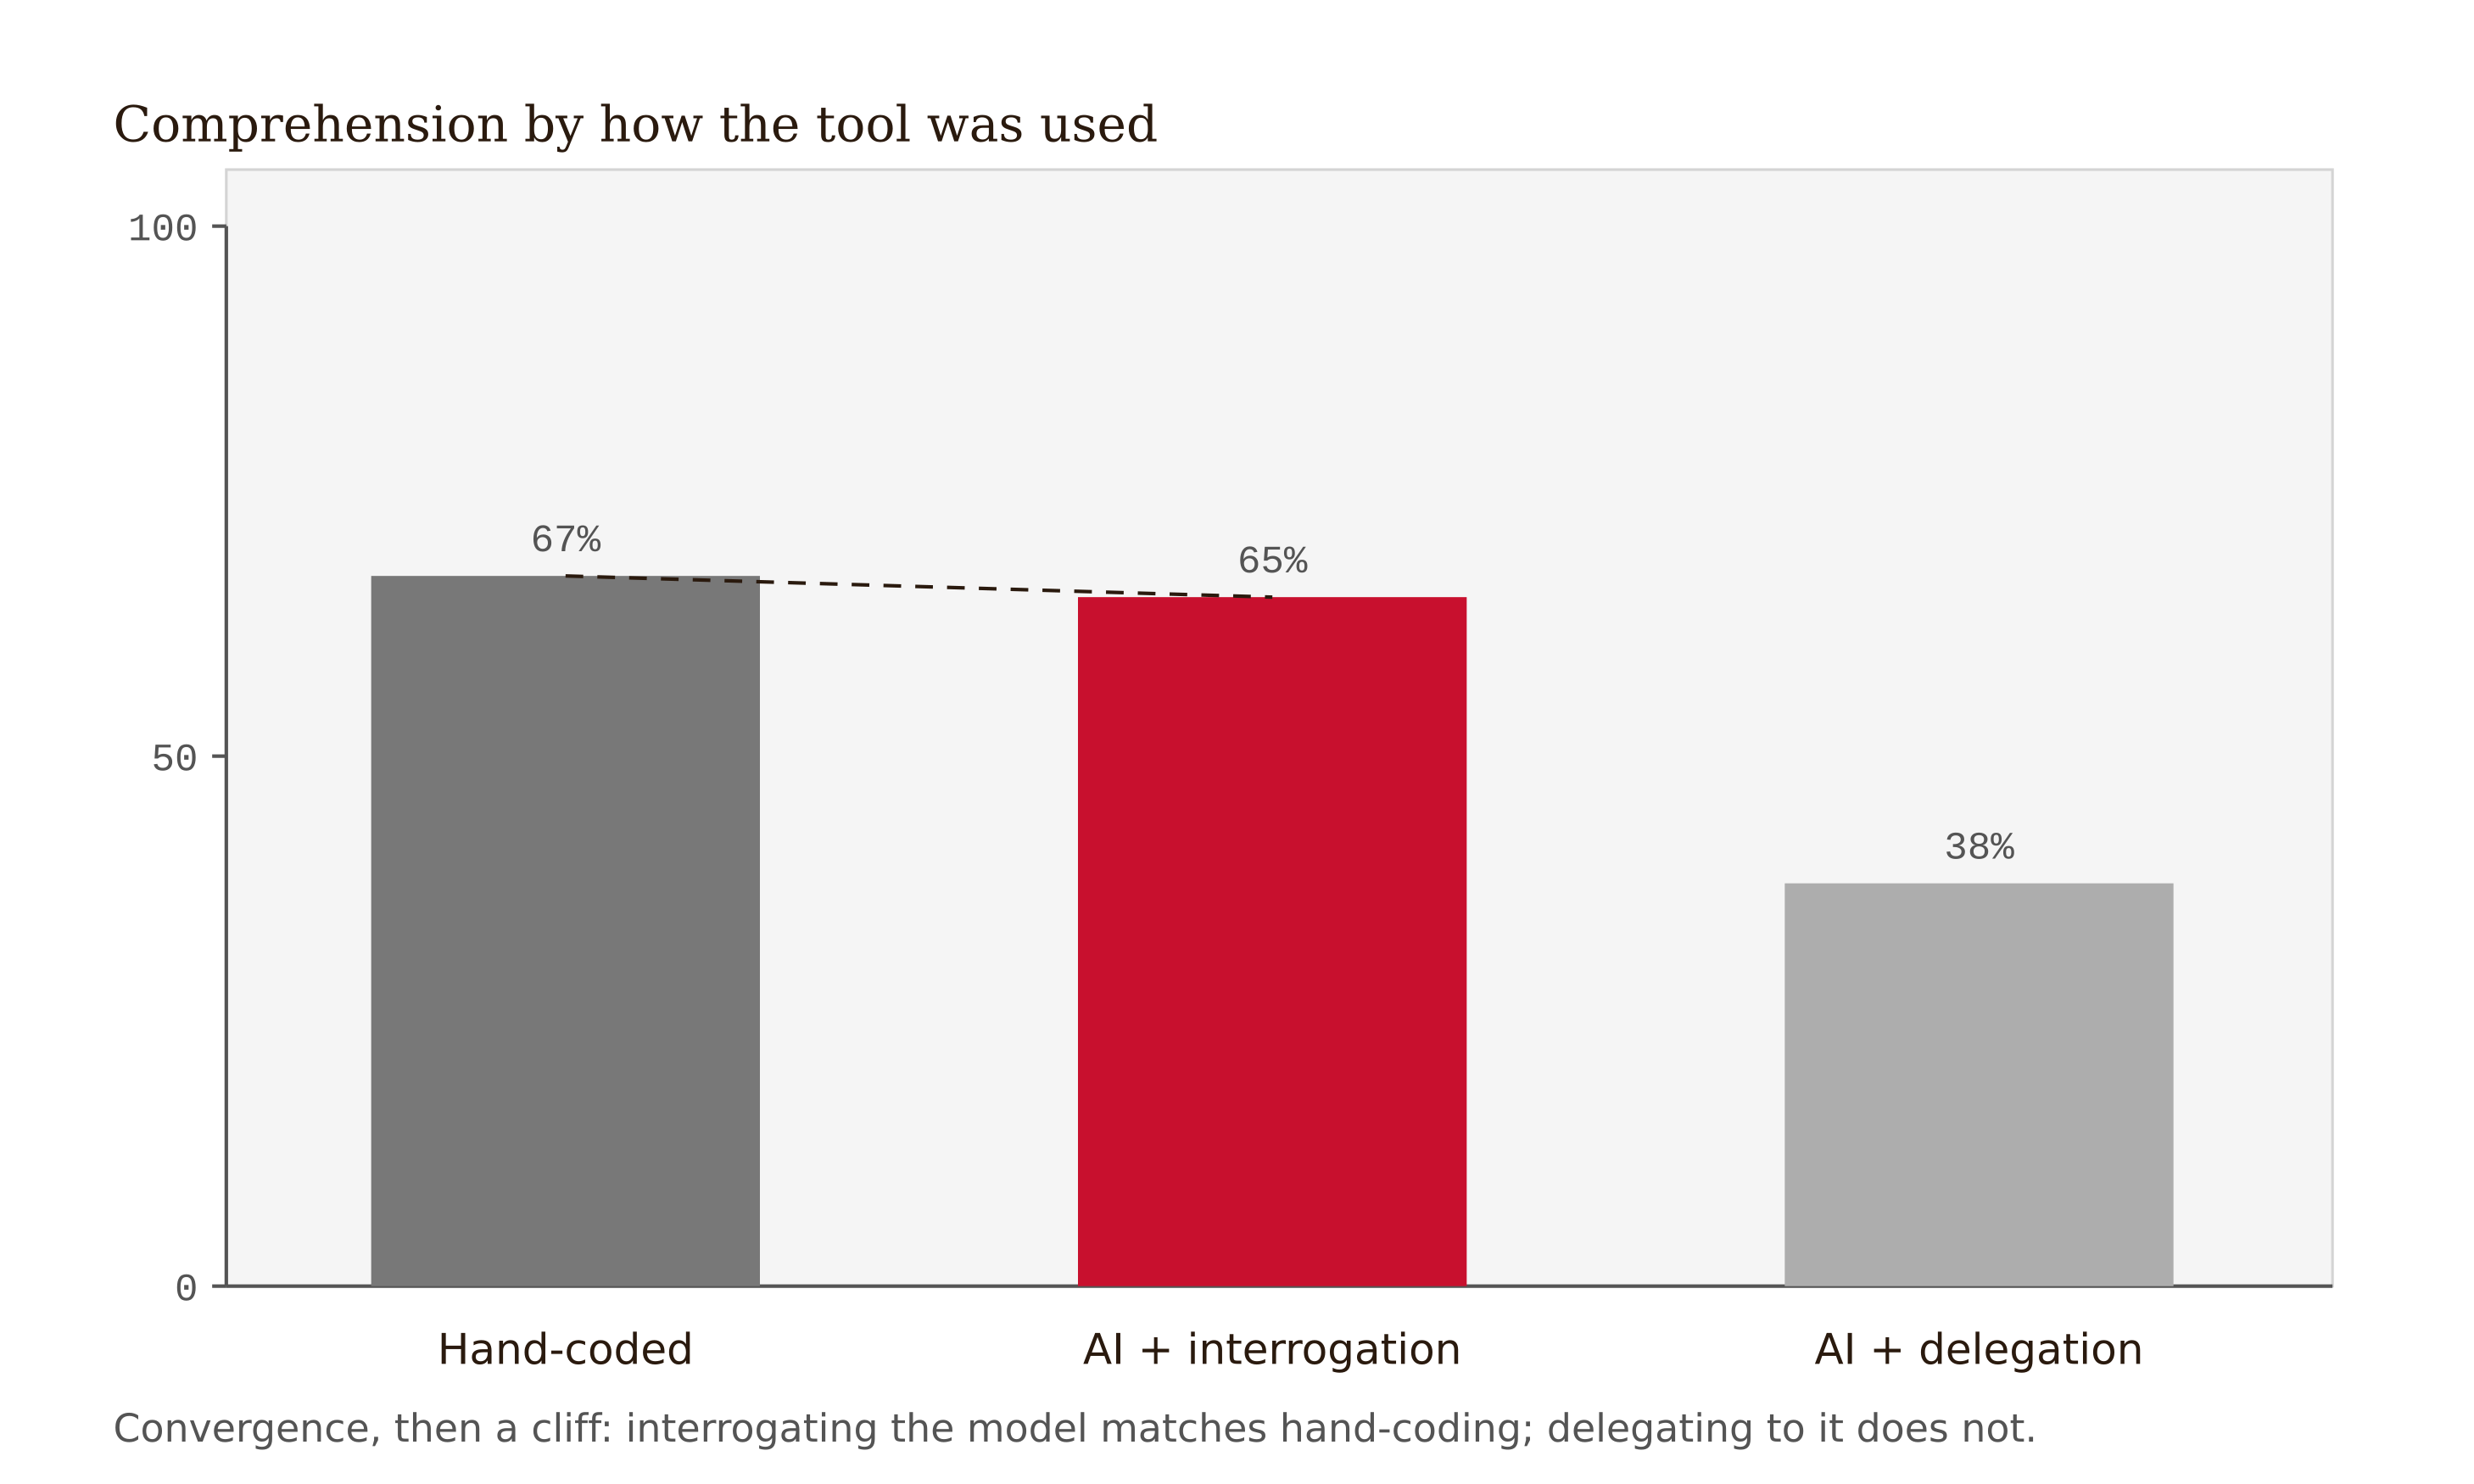
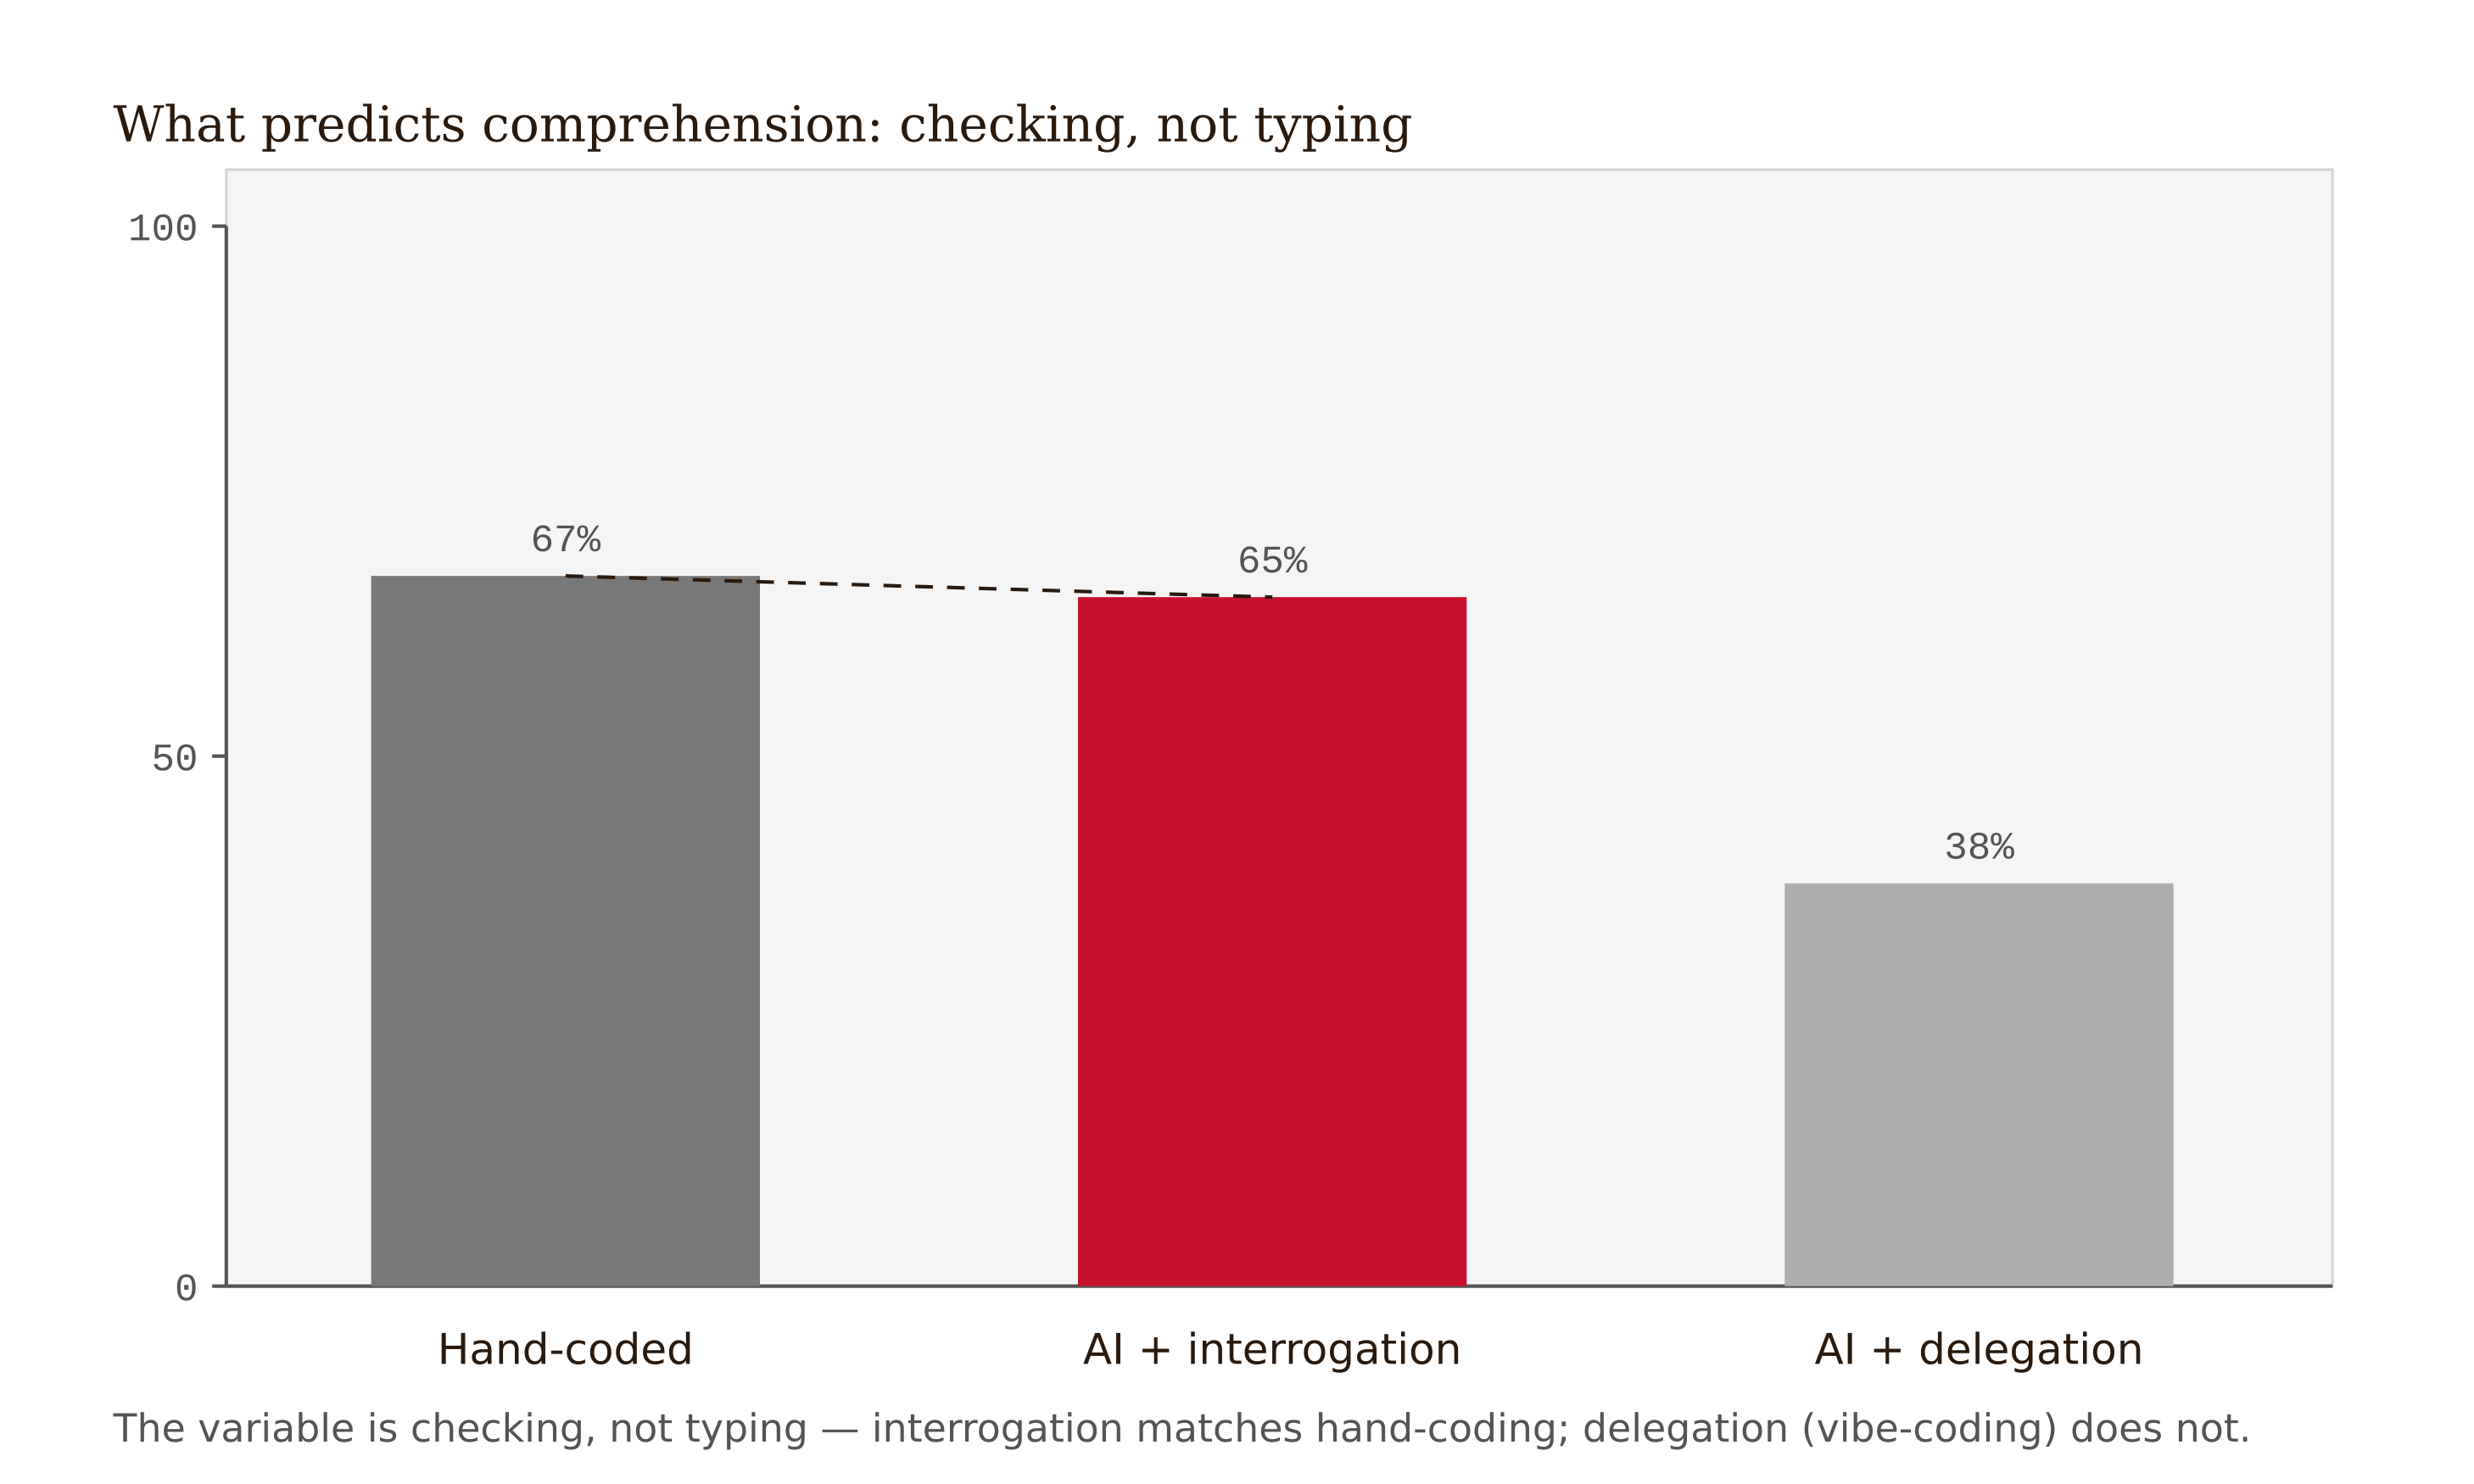
Ch1: clarify the skill is checking, not typing
- AI is an excellent typist; hand-coding won via understanding, not the hand
- Name vibe-coding (prompt-and-hope) as the failure mode; discipline = check/test/validate
- Reframe Fig 1.2 (title/subtitle/alt/caption/desc + D3) and regenerate PNG (reallocation)
- Strengthen Anthropic footnote: arXiv:2601.20245 primary cite + correct within-group ranges
- mycroft/madison Ch1: domain-adapted checking-not-producing paragraph

Changed region(s): [[0.0312, 0.9566, 0.9047, 0.9874], [0.0312, 0.0617, 0.5615, 0.1234]]

diff --git a/d3/01-the-fluency-trap-fig-02.html b/d3/01-the-fluency-trap-fig-02.html
@@ -3,7 +3,7 @@
 <head>
   <meta charset="UTF-8">
   <meta name="viewport" content="width=device-width, initial-scale=1.0">
-  <title>The Anthropic RCT: comprehension by how the tool was used</title>
+  <title>The Anthropic RCT: the variable is checking, not typing</title>
   <style>
     :root {
       --color-white:     #FFFFFF;
@@ -80,11 +80,11 @@
       const svg = d3.select('#chart').append('svg')
         .attr('width', totalWidth).attr('height', totalHeight)
         .attr('role', 'img').attr('aria-labelledby', 'chart-title chart-desc');
-      svg.append('title').attr('id', 'chart-title').text('The Anthropic RCT: comprehension by how the tool was used');
-      svg.append('desc').attr('id', 'chart-desc').text('Three bars showing comprehension-quiz averages: hand-coding and AI-plus-interrogation sit near 65 percent while AI-plus-delegation drops below 40 percent.');
+      svg.append('title').attr('id', 'chart-title').text('The Anthropic RCT: the variable is checking, not typing');
+      svg.append('desc').attr('id', 'chart-desc').text('Three bars showing comprehension-quiz averages: hand-coding and AI-plus-interrogation sit near 65 percent while AI-plus-delegation drops below 40 percent. The two high bars share a behavior — the human kept checking — not a typing method.');
 
-      svg.append('text').attr('class', 'chart-title').attr('x', margin.left).attr('y', 24).text('Comprehension by how the tool was used');
-      svg.append('text').attr('class', 'chart-subtitle').attr('x', margin.left).attr('y', 41).text('14-question quiz, n = 52 junior engineers (Anthropic RCT, Jan 2026)');
+      svg.append('text').attr('class', 'chart-title').attr('x', margin.left).attr('y', 24).text('What predicts comprehension: checking, not typing');
+      svg.append('text').attr('class', 'chart-subtitle').attr('x', margin.left).attr('y', 41).text('Comprehension quiz, n = 52 junior engineers (Anthropic RCT, Feb 2026)');
 
       const gChart = svg.append('g').attr('transform', `translate(${margin.left},${margin.top})`);
 

diff --git a/chapters/01-the-fluency-trap.md b/chapters/01-the-fluency-trap.md
@@ -48,10 +48,14 @@ Then — and this is the move that makes it an experiment about judgment rather 
 
 The hand-coding group averaged 67 percent. The AI-assisted group averaged 50 percent. Seventeen points — close to two letter grades — opened up between two sets of people who had just spent the same amount of time on the same problem.[^anthropic] The only thing that differed was whether a machine did the executing.
 
-And here is the detail that turns a finding into a warning. Inside the AI group, behavior split the outcome cleanly. The engineers who used the model to *interrogate* — asking it conceptual questions, challenging its answers, forcing themselves to understand what it produced — scored 65 percent or higher. The engineers who used it to *delegate* — describe the problem, accept the output, move on — scored below 40.[^anthropic] Same tool. Same task. Opposite result. The variable was not the AI. It was whether the human kept doing the judgment work while the machine did the typing.
+Read that result carefully, because the obvious lesson is the wrong one. The hand-coders did not win because typing code by hand is some lost virtue. Typing is not the skill, and the machine is a superb typist — faster and more accurate at producing syntax than any human will ever be. The hand-coders won because writing the code themselves forced them to understand it: to hold the problem in their heads, to test what they wrote, to debug it when it broke. The hand was incidental. The understanding was the point. Take a group that gets that same understanding some other way — and the gap closes.
 
-![Three vertical bars. Hand-coding and AI-plus-interrogation sit at nearly the same height; AI-plus-delegation drops off sharply, with a faint reference line linking the two high bars.](../images/01-the-fluency-trap-fig-02.png)
-*Figure 1.2 — The Anthropic RCT: comprehension by how the tool was used*
+And here is the detail that turns a finding into a warning. Inside the AI group, behavior split the outcome cleanly. The engineers who used the model to *interrogate* — asking it conceptual questions, challenging its answers, forcing themselves to understand what it produced — scored in the 65-to-86 percent range. The engineers who used it to *delegate* — describe the problem, accept the output, move on — scored in the 24-to-39 percent range.[^anthropic] Same tool. Same task. Opposite result. The variable was not the AI, and it was not who typed. It was whether the human kept checking — reading, questioning, testing — while the machine produced.
+
+That second mode has a name now, and it is worth saying plainly: *vibe-coding*. Prompt, glance, accept, move on. It feels like productivity because the artifact appears and it runs. It is the precise behavior that scored below 40. The discipline this book teaches is its opposite — not "do it by hand," but *check the work*: read what came back, test it, try to break it, validate it against something real, and refuse to ship what you cannot defend. Let the machine type. Keep the checking for yourself.
+
+![Three vertical bars showing comprehension-quiz scores. Hand-coding and AI-plus-interrogation sit at nearly the same height, joined by a faint reference line; AI-plus-delegation drops off sharply. The two high bars share not a typing method but a behavior: the human kept checking.](../images/01-the-fluency-trap-fig-02.png)
+*Figure 1.2 — The Anthropic RCT: the variable is checking, not typing. Interrogating the model matches writing it yourself; delegating to it — vibe-coding — collapses.*
 
 <!-- → [INFOGRAPHIC: three-column comparison — "Hand-coding" (67% comprehension quiz average), "AI + interrogation" (≥65%), "AI + delegation" (<40%); visual treatment should emphasize that the middle and left columns converge while the right column falls off sharply; caption: "The tool is identical in the middle and right columns. The variable is what the human does while it runs."] -->
 
@@ -111,7 +115,7 @@ So the discipline this entire book is built on starts with a single reflex, and 
 
 That reflex is judgment. It is the part that does not get cheaper. On a ninety-day clock, with the bottom rung disappearing and the boost flowing to whoever already has the eye, it is also the only thing that reliably separates you from the flood of fluent, identical, unexamined output arriving in every inbox you are trying to reach.
 
-The machine will do the typing. The judgment is yours, and it always was. The rest of this book is about how to build it on purpose — fast enough to beat the clock.
+The machine will do the typing — and it is better at it than you are. The checking is yours, and it always was: the judgment about whether the fluent thing on the screen is actually right. The rest of this book is about how to build that judgment on purpose — fast enough to beat the clock.
 
 ---
 
@@ -314,7 +318,7 @@ After completing this validation, write a two-sentence AI Use Disclosure:
 
 [^grading]: Grading split (≈75–80% procedural / 20–25% judgment) drawn from "The Job Apocalypse (Not Yet): Thinking Has Become the Job" (uploaded essay, N. Bear Brown). **[verify]** — locate the primary syllabus/rubric data this figure summarizes before publication; currently sourced to the author's own essay, not an external study.
 
-[^anthropic]: Anthropic, "How AI assistance impacts the formation of coding skills," randomized controlled trial published Jan 29 2026: 52 junior engineers learning the Trio Python library; AI-assisted group averaged 50% on a 14-question comprehension quiz vs 67% for hand-coders (~17 points). Within the AI group, conceptual-interrogation users scored ≥65% while code-delegators scored <40%. https://www.anthropic.com/research/AI-assistance-coding-skills (see also InfoQ summary, Feb 2026: https://www.infoq.com/news/2026/02/ai-coding-skill-formation/). Note: these are the study's reported figures; an earlier draft essay paraphrased the split as "24–39% vs 65–86%" — use the primary numbers above.
+[^anthropic]: Judy Hanwen Shen & Alex Tamkin, "How AI Impacts Skill Formation," Anthropic, Feb 3 2026 (arXiv:2601.20245, https://arxiv.org/abs/2601.20245); plain-language summary at https://www.anthropic.com/research/AI-assistance-coding-skills. A randomized controlled trial of 52 (mostly junior) engineers learning the Trio asynchronous Python library: the AI-assisted group averaged 50% on the comprehension quiz versus 67% for the hand-coding group (~17 points, ≈ two letter grades), with the largest gap on the debugging questions. The study reports substantial heterogeneity *within* the AI group: high-engagement usage (asking conceptual questions, requesting explanations alongside generated code) scored 65–86%, while delegation usage (generate code, accept, move on) scored 24–39%. The mechanism is cognitive engagement, not manual typing — Anthropic's own recommendation is to use AI in ways that keep the engineer "cognitively engaged," preserving debugging and validation skill. Hand-coding and interrogation both force understanding; delegation does not.
 
 [^drag]: "AI boost" / "AI drag" framing attributed to Mark Russinovich and Scott Hanselman, via "The Ladder That Isn't There" (uploaded essay, N. Bear Brown). **[verify]** — trace to the original Russinovich/Hanselman source before publication.
 
@@ -332,9 +336,9 @@ After completing this validation, write a two-sentence AI Use Disclosure:
 **Files:** ../images/01-the-fluency-trap-fig-01.svg · ../d3/01-the-fluency-trap-fig-01.html
 **Prompt:** Two aligned stacked bars on white, the same value split recut by a second question. Render procedural competence as a tall neutral-gray base and judgment as a small cap in the one red accent; align the segment boundary across both bars with a dashed ink rule, zero baseline anchored.
 
-### Figure 1.2 — The Anthropic RCT: comprehension by how the tool was used
+### Figure 1.2 — The Anthropic RCT: the variable is checking, not typing
 **Files:** ../images/01-the-fluency-trap-fig-02.svg · ../d3/01-the-fluency-trap-fig-02.html
-**Prompt:** Three vertical bars on white at zero baseline — hand-coding and AI-plus-interrogation near-level, AI-plus-delegation dropping off a cliff. Keep the high bars in neutral ink-gray and let the convergence read through a faint ochre reference line; reserve red for nothing but the chapter's brand mark.
+**Prompt:** Three vertical bars on white at zero baseline — hand-coding and AI-plus-interrogation near-level, AI-plus-delegation dropping off a cliff. Title the chart so the lesson is unmistakable: what the two high bars share is checking, not a typing method. Keep the high bars in neutral ink-gray, let the convergence read through a faint dashed reference line, and reserve red for the one engaged-AI bar; subtitle names delegation as vibe-coding.
 
 ### Figure 1.3 — AI as material risk: S&P 500 disclosures, 2023–2025
 **Files:** ../images/01-the-fluency-trap-fig-03.svg · ../d3/01-the-fluency-trap-fig-03.html